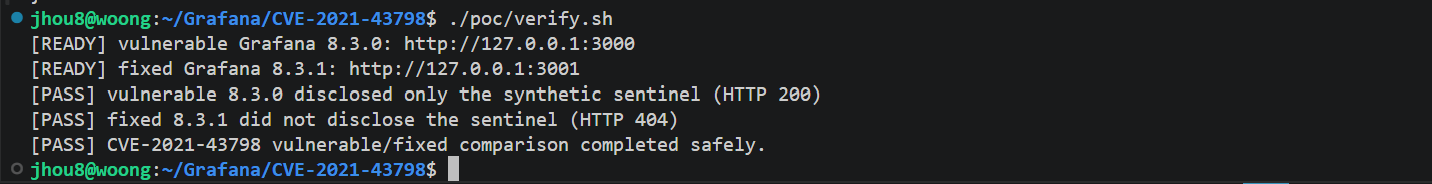
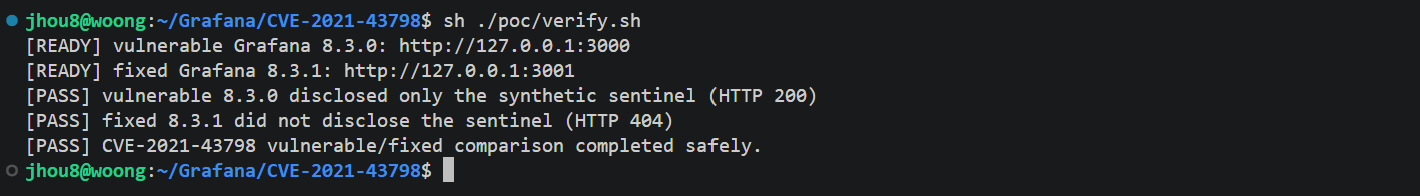
docs: make Grafana PoC invocation portable

diff --git a/Grafana/CVE-2021-43798/README.md b/Grafana/CVE-2021-43798/README.md
@@ -109,7 +109,7 @@ curl --path-as-is -i \
 ### 자동 비교
 
 ```bash
-./poc/verify.sh
+sh ./poc/verify.sh
 ```
 
 정상적으로 비교가 끝나면 마지막에 다음 메시지가 출력됩니다.
